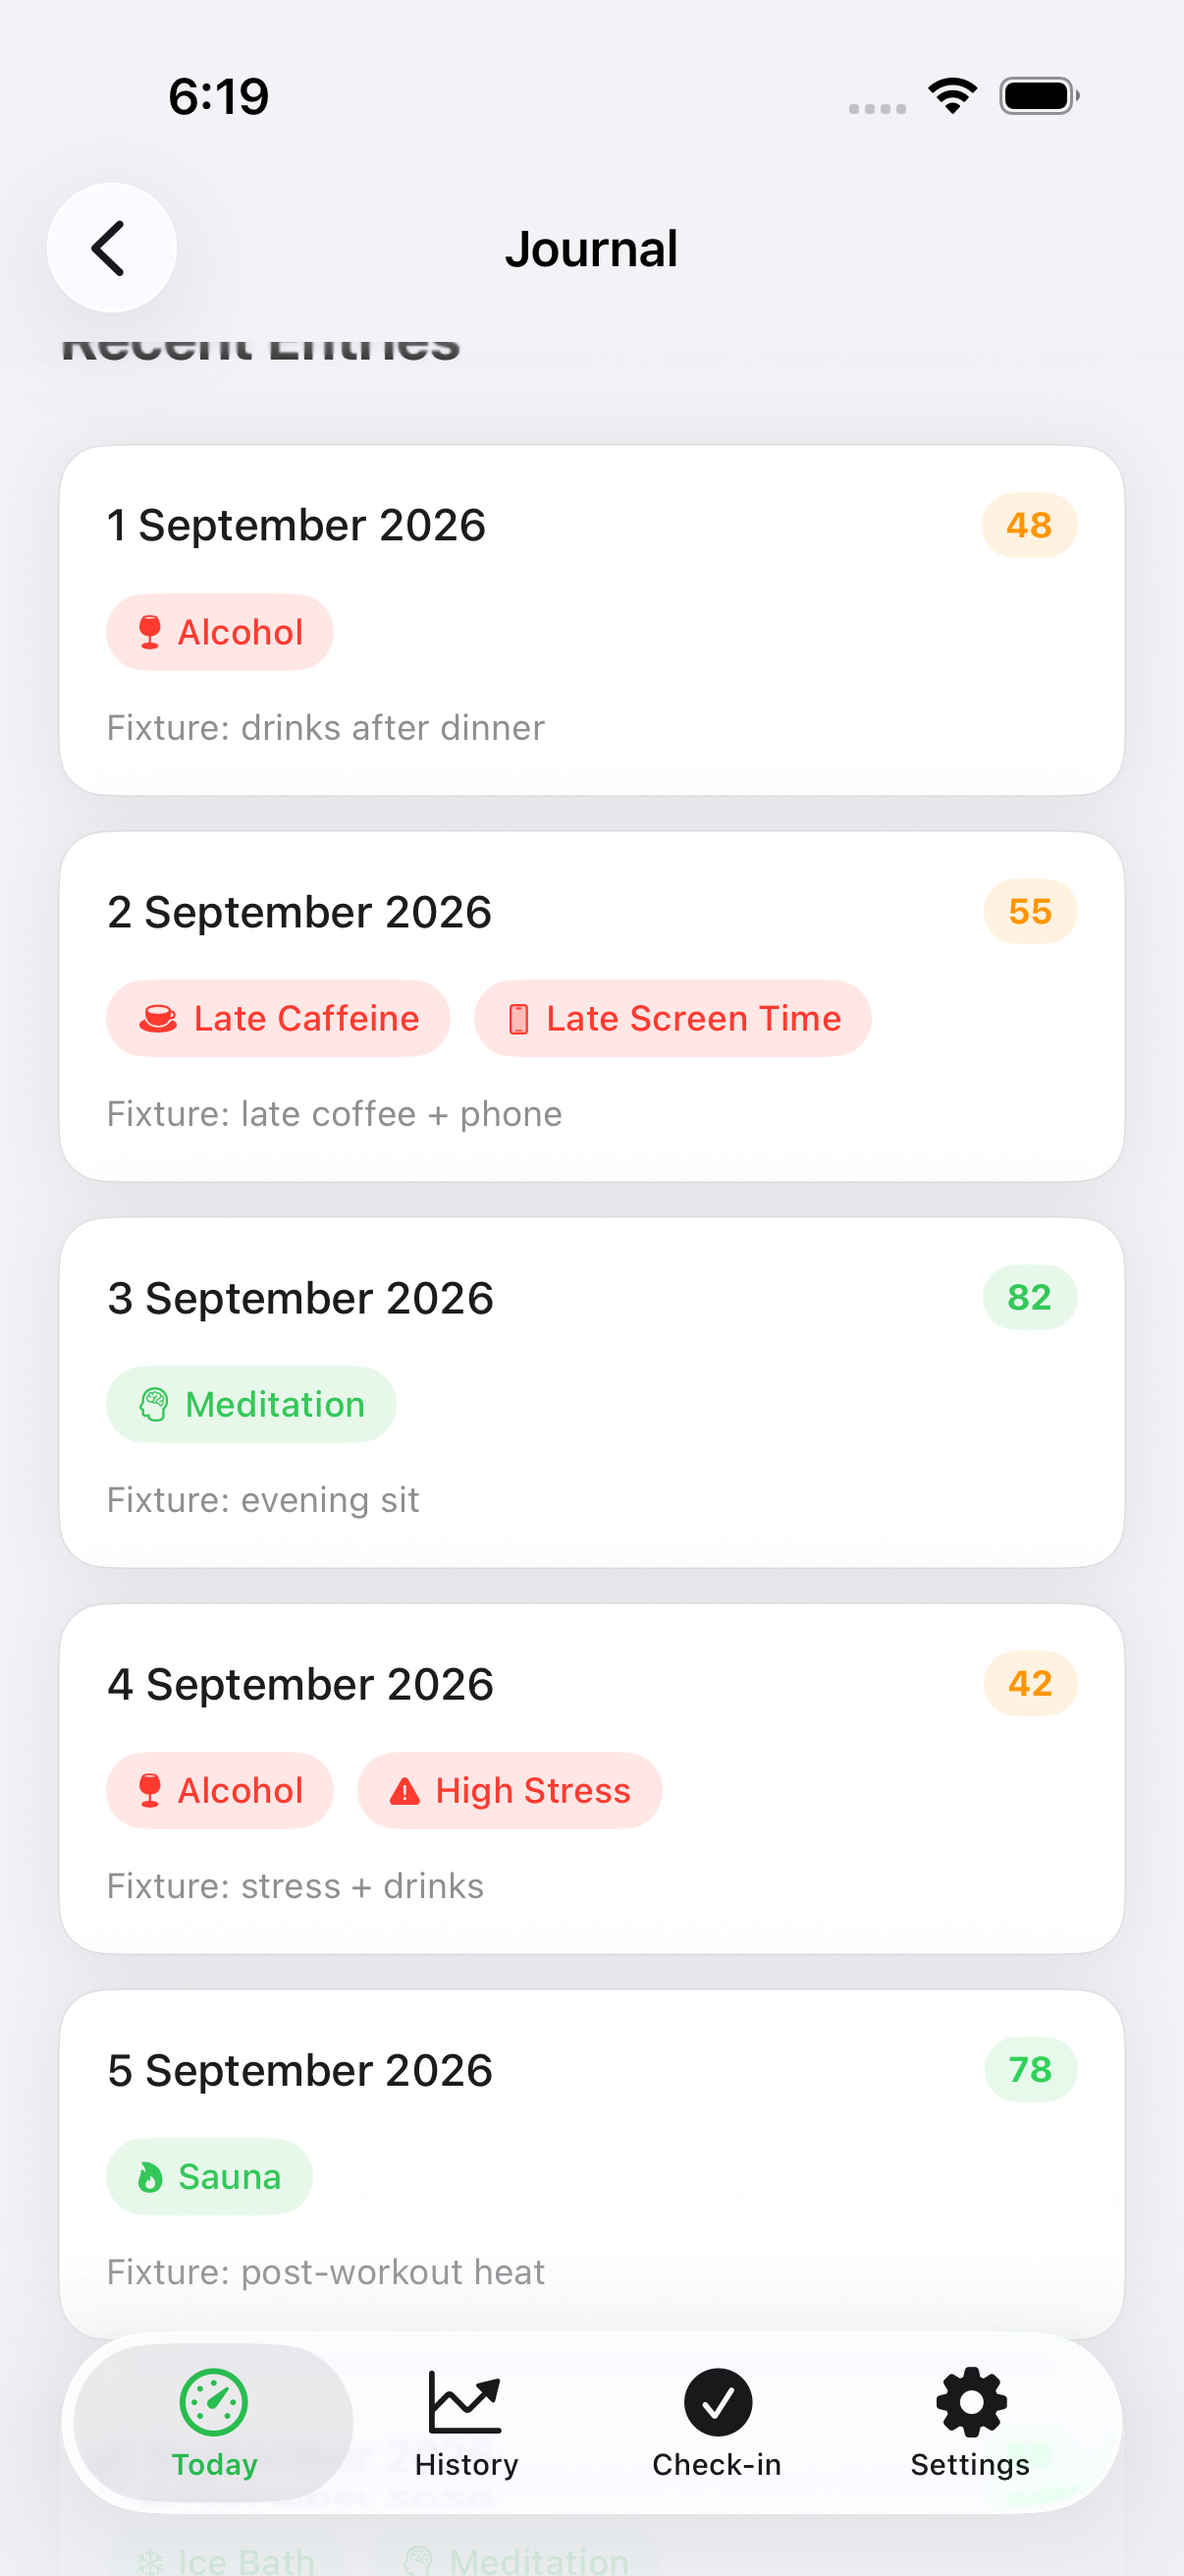
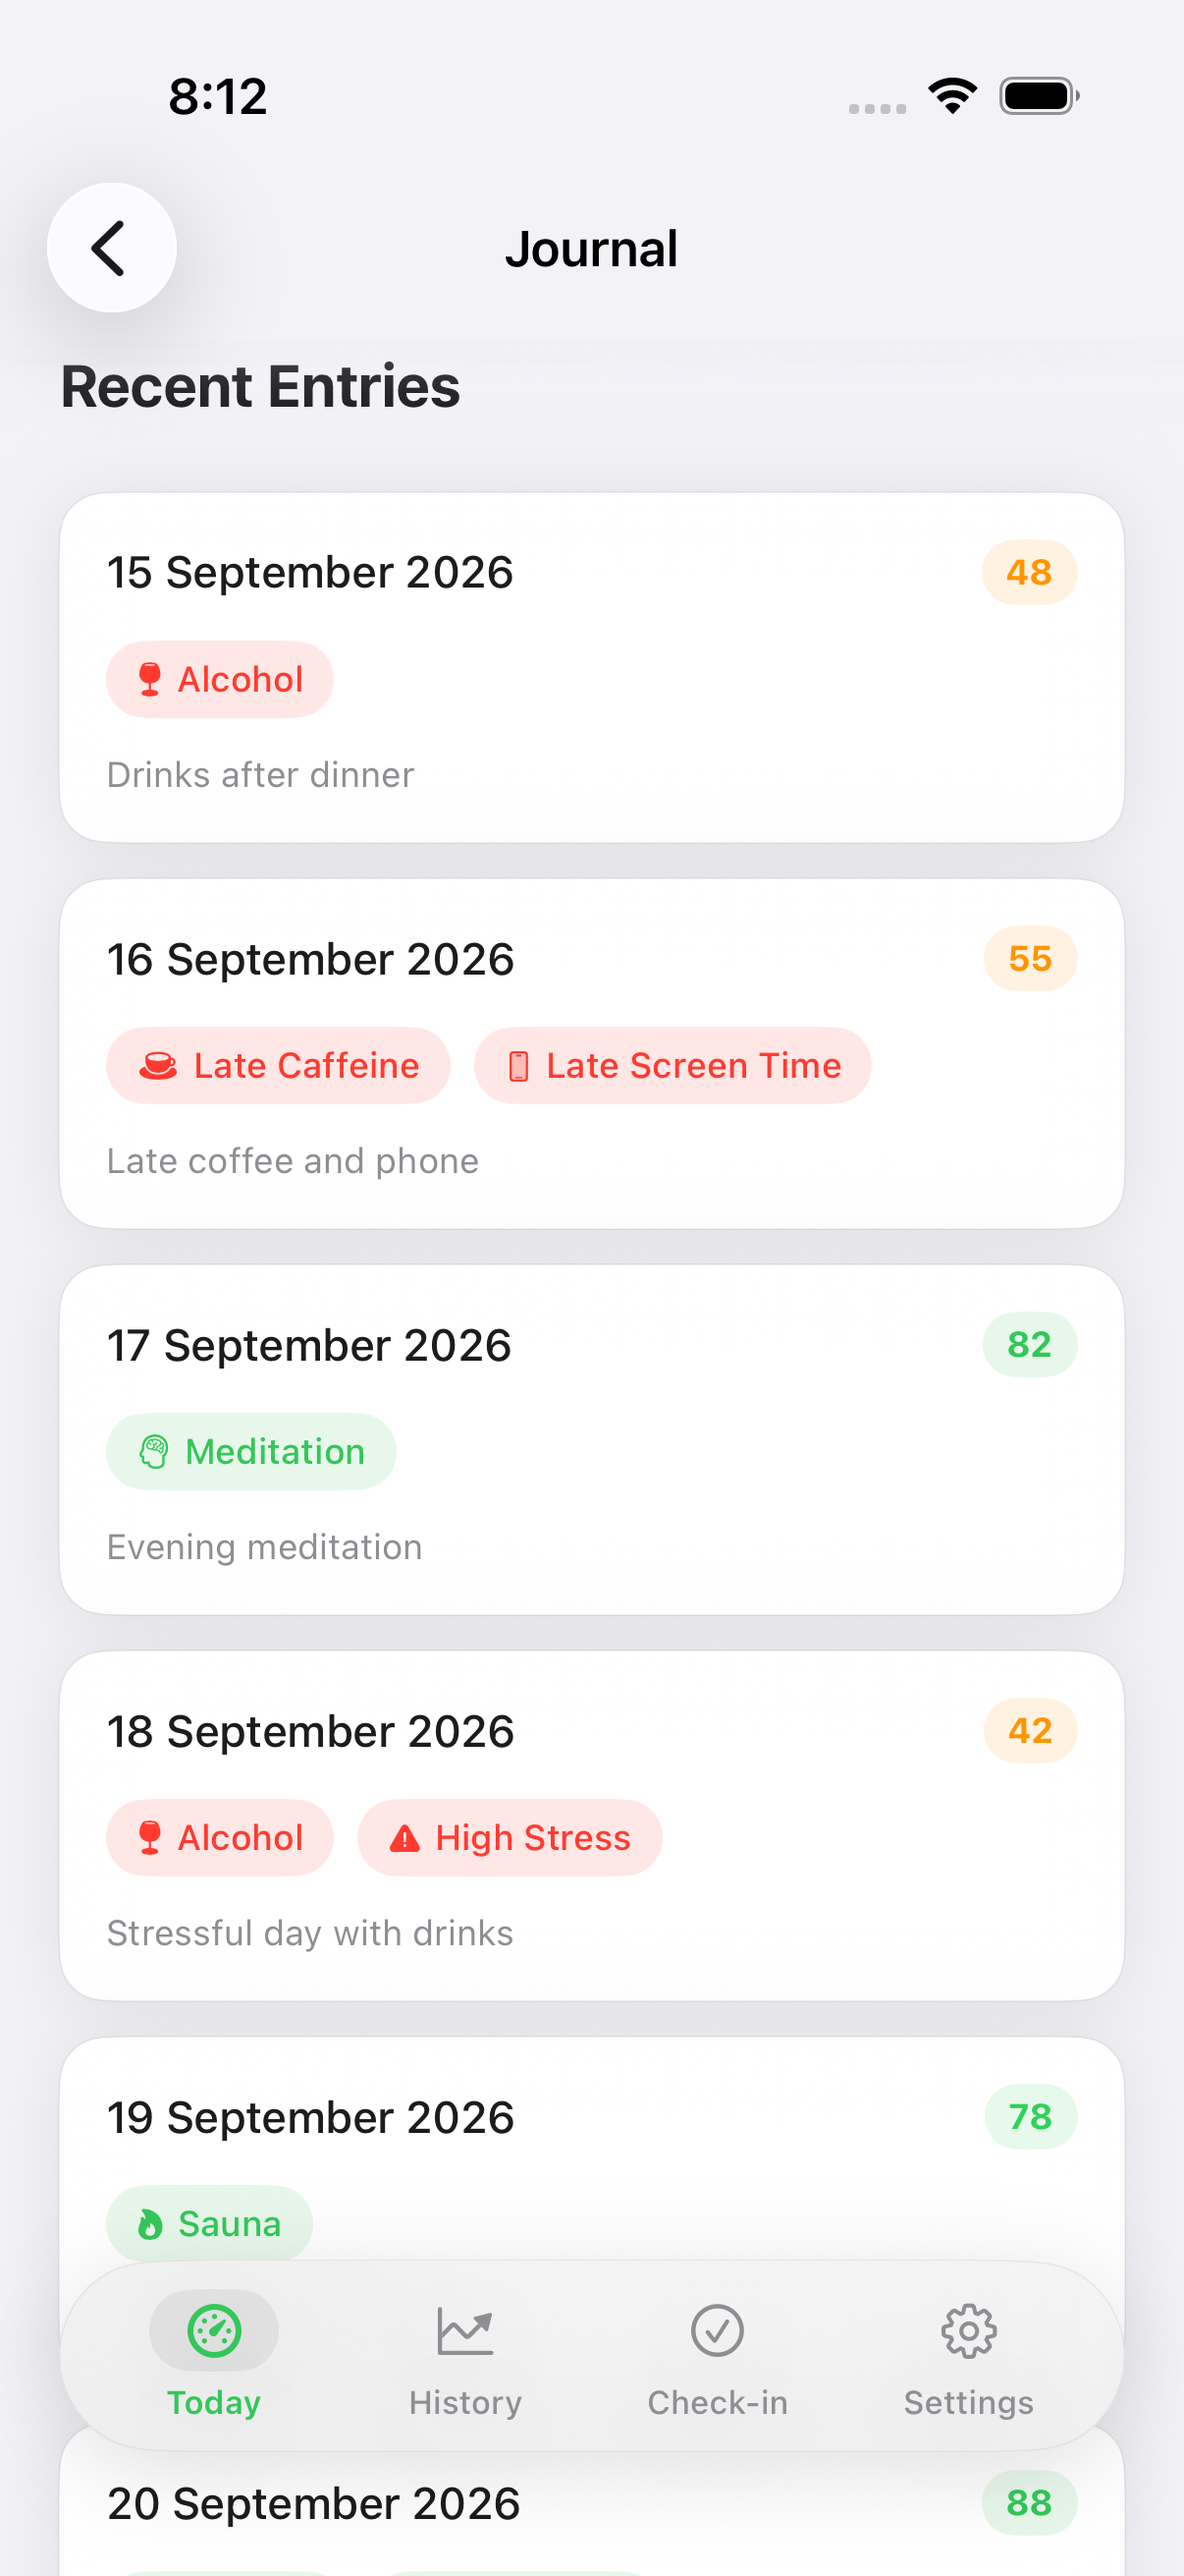
feat(journal): drop Fixture: note prefix (Honest #57) (#75)

diff --git a/ReadinessTracker/Services/DataStore.swift b/ReadinessTracker/Services/DataStore.swift
@@ -111,14 +111,14 @@ enum UIFixture {
         let today = cal.startOfDay(for: Date())
         // (daysAgo, behaviors, notes, readinessScore)
         let specs: [(Int, [JournalEntryView.Behavior], String, Int)] = [
-            (7, [.alcohol], "Fixture: drinks after dinner", 48),
-            (6, [.caffeineLate, .screenTime], "Fixture: late coffee + phone", 55),
-            (5, [.meditation], "Fixture: evening sit", 82),
-            (4, [.alcohol, .stress], "Fixture: stress + drinks", 42),
-            (3, [.sauna], "Fixture: post-workout heat", 78),
-            (2, [.iceBath, .meditation], "Fixture: cold + calm", 88),
-            (1, [.screenTime], "Fixture: late scrolling", 60),
-            (0, [.massage], "Fixture: recovery day", 80),
+            (7, [.alcohol], "Drinks after dinner", 48),
+            (6, [.caffeineLate, .screenTime], "Late coffee and phone", 55),
+            (5, [.meditation], "Evening meditation", 82),
+            (4, [.alcohol, .stress], "Stressful day with drinks", 42),
+            (3, [.sauna], "Post-workout sauna", 78),
+            (2, [.iceBath, .meditation], "Cold plunge and calm", 88),
+            (1, [.screenTime], "Late night scrolling", 60),
+            (0, [.massage], "Easy recovery day", 80),
         ]
         return specs.map { daysAgo, behaviors, notes, score in
             let date = cal.date(byAdding: .day, value: -daysAgo, to: today)!
